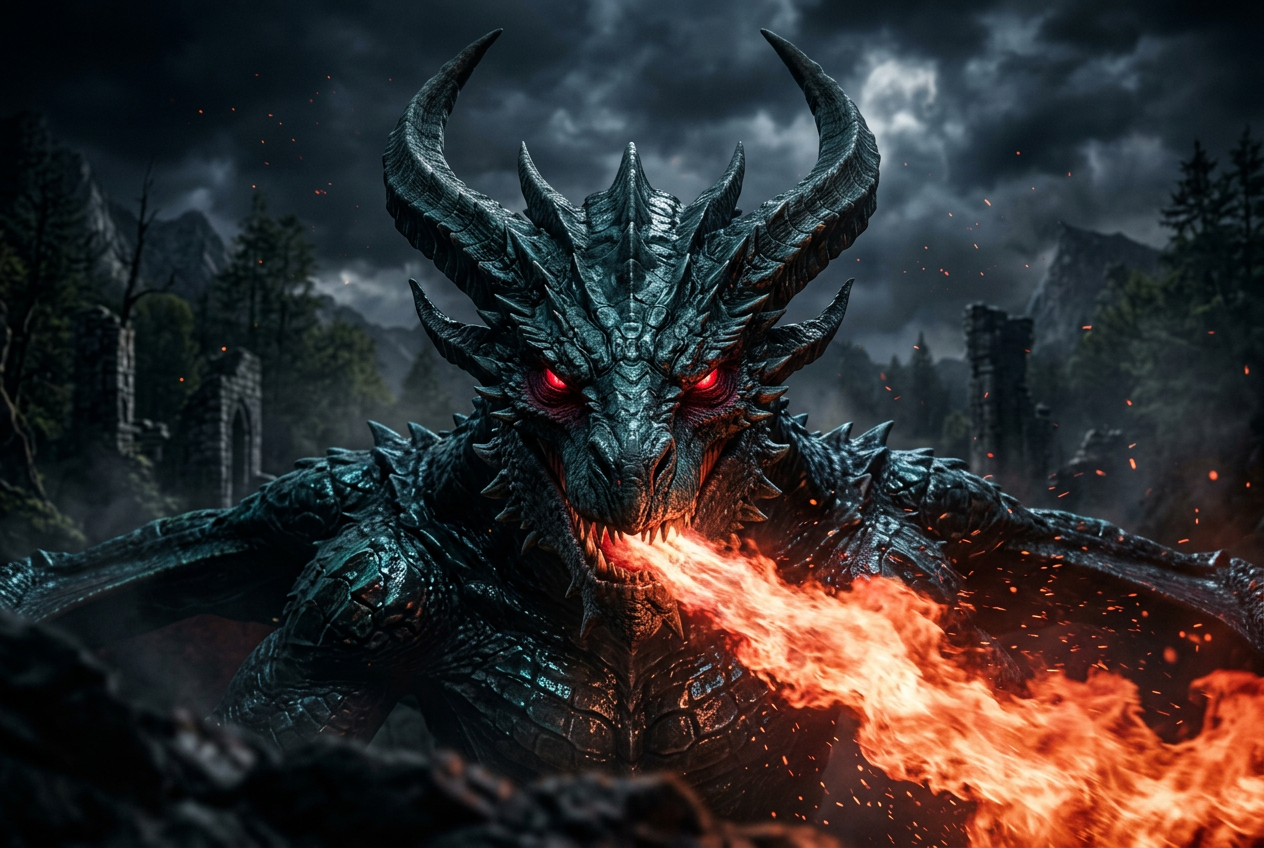
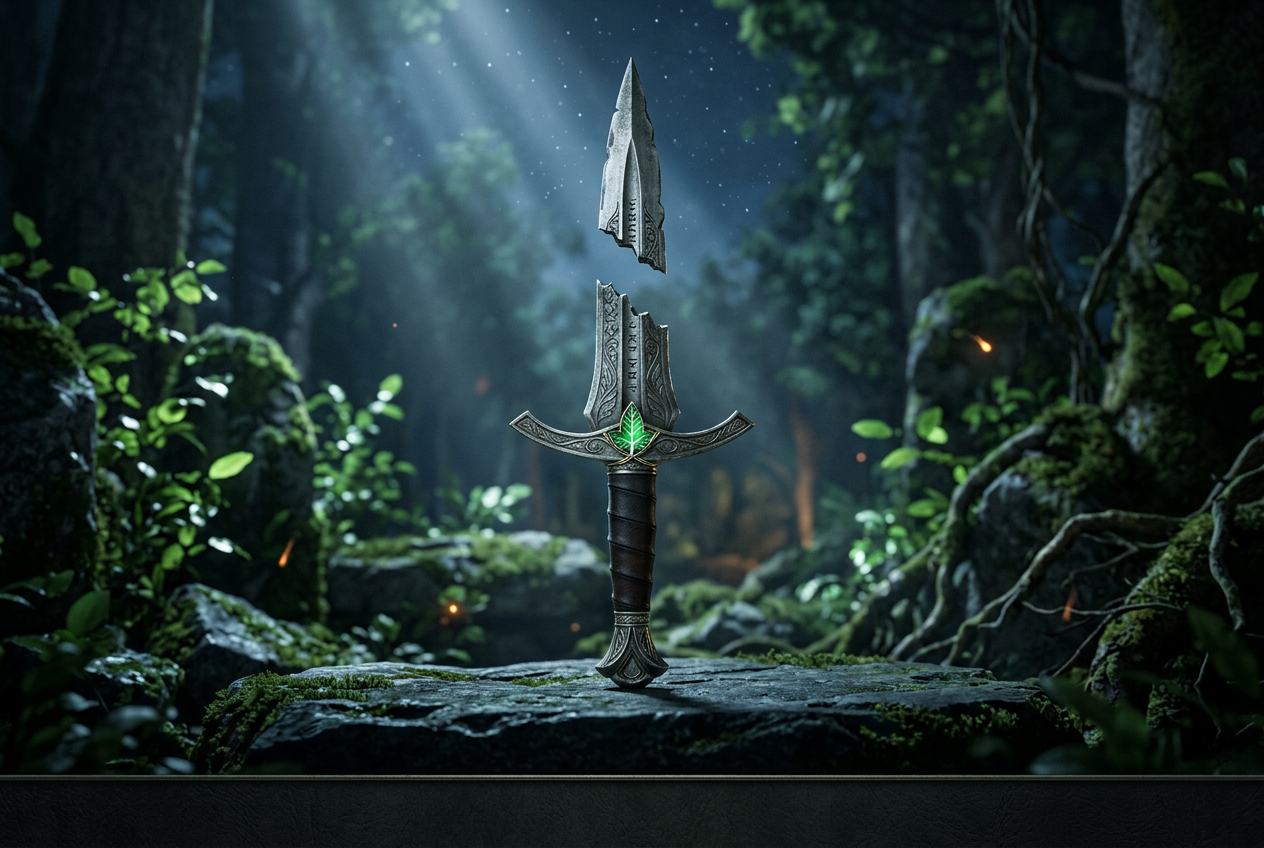
feat: update Montemader review page theme and content details
V0-Chat-Id: vu9GYSy5o8h

diff --git a/public/montemader-review.html b/public/montemader-review.html
@@ -3,9 +3,9 @@
 <head>
   <meta charset="utf-8">
   <meta name="viewport" content="width=device-width, initial-scale=1">
-  <meta name="theme-color" content="#0b0710">
-  <meta name="description" content="Montemader defense grid review mockup.">
-  <title>Montemader · Defense Grid</title>
+  <meta name="theme-color" content="#07090a">
+  <meta name="description" content="A dark, Tolkien-inspired sample control room with a green leaf sigil, field trials, and a lore archive.">
+  <title>Montemader · Green Leaf Watch</title>
   <style>
     :root {
       color-scheme: dark;
@@ -26,8 +26,8 @@
     }
 
     * { box-sizing: border-box; }
-    html { min-width: 320px; background: var(--bg); }
-    body { min-height: 100vh; margin: 0; background: var(--bg); color: var(--text); font-family: var(--sans); }
+    html { min-width: 320px; background: #07090a; }
+    body { min-height: 100vh; margin: 0; background: radial-gradient(ellipse at 50% -18%, rgb(52 81 58 / 34%), transparent 54%), linear-gradient(180deg, #0b100d 0%, #07090a 46%, #050707 100%); background-attachment: fixed; color: var(--text); font-family: var(--sans); }
     button, input { font: inherit; }
     button { color: inherit; }
     button:focus-visible, input:focus-visible { outline: 2px solid var(--silvergreen); outline-offset: 3px; }
@@ -110,7 +110,7 @@
     .bot-card:nth-child(2) .action { animation-delay: .16s; }
     .bot-card:nth-child(3) .action { animation-delay: .32s; }
 
-    .section-heading { margin: 22px 0 10px; font: 400 17px/1.2 var(--serif); }
+    .section-heading { margin: 22px 0 10px; border-bottom: 1px solid var(--line); padding-bottom: 8px; color: #dce5d5; font: 400 17px/1.2 var(--serif); text-shadow: 0 2px 8px rgb(0 0 0 / 65%); }
     .two-column { display: grid; grid-template-columns: 1.1fr .9fr; gap: 12px; }
     .card-pad { padding: 14px; }
     .card h2 { margin: 0 0 11px; font: 400 16px/1.2 var(--serif); }
@@ -182,8 +182,8 @@
       <div class="brand">
         <button class="brand-mark" id="open-sign-in" type="button" aria-label="M — open sign in">M</button>
         <div class="brand-info">
-          <strong><a href="https://montemader.com" target="_blank" rel="noopener noreferrer">Montemader.com</a> · Defense Grid</strong>
-          <span>Tunnel status · bot controls · event data</span>
+          <strong><a href="https://montemader.com" target="_blank" rel="noopener noreferrer">Montemader.com</a> · Green Leaf Watch</strong>
+          <span>Two dragon agents · one blade sentinel · sample only</span>
         </div>
       </div>
       <span class="preview-state">SAMPLE</span>
@@ -191,14 +191,14 @@
 
     <nav aria-label="Pages">
       <button type="button" data-view="dashboard" aria-current="page">Dashboard</button>
-      <button type="button" data-view="tester">Tester</button>
-      <button type="button" data-view="matrix">Intel</button>
+      <button type="button" data-view="tester">Field Trials</button>
+      <button type="button" data-view="matrix">Elven Archive</button>
       <button class="manual-toggle" type="button" data-action="toggle-manual" aria-pressed="false" aria-label="Toggle manual override">MM: Auto</button>
     </nav>
 
     <main tabindex="-1">
       <section class="view" id="view-dashboard" aria-labelledby="dashboard-title">
-        <div class="page-title"><h1 id="dashboard-title">Defense grid</h1><span class="sample-tag">DEMO DATA</span></div>
+        <div class="page-title"><h1 id="dashboard-title">The Green Leaf Watch</h1><span class="sample-tag">DEMO DATA</span></div>
         <div class="status-strip">
           <p class="notice" role="note">Sample telemetry · not connected to live bots.</p>
           <a class="sms-link" href="sms:+14258303312?body=EMERGENCY%20SITE%20ATTACK%20-%20montemader.com" aria-label="Compose an emergency SMS to +1 425-830-3312">SMS +1 425-830-3312</a>
@@ -212,9 +212,9 @@
         </div>
         <div class="bot-grid">
           <article class="card bot-card">
-            <div class="bot-image-wrap"><img class="bot-image" src="/images/superbot-portrait.png" alt="Photorealistic teal-black dragon staring forward with glowing red eyes and breathing fire"><h2 class="bot-name">SuperBot</h2></div>
+            <div class="bot-image-wrap"><img class="bot-image" src="/images/superbot-portrait.png" alt="Broken elven sword with a vivid green Leaf of Lórien brooch in a shadowed forest"><h2 class="bot-name">SuperBot</h2></div>
             <div class="bot-info">
-              <p class="bot-role">Elf Lord WAF / Edge AI</p>
+              <p class="bot-role">Narsil-inspired blade sentinel · Leaf of Lórien sigil</p>
               <dl>
                 <div class="detail"><dt>Target</dt><dd><a class="target-link" href="https://montemader.com" target="_blank" rel="noopener noreferrer">montemader.com</a></dd></div>
                 <div class="detail"><dt>Tunnel</dt><dd>Alpha · 443</dd></div>
@@ -222,7 +222,7 @@
                 <div class="detail"><dt>Health</dt><dd class="healthy">Sample · 100%</dd></div>
                 <div class="detail"><dt>Heartbeat</dt><dd>Demo only</dd></div>
               </dl>
-              <div class="conduit">WAF · reputation scoring · JS challenge</div>
+              <div class="conduit">Green leaf of protection · visual sigil only · sample mode</div>
               <button class="action" type="button" data-demo-attack="SuperBot">Preview route</button>
             </div>
           </article>
@@ -259,7 +259,7 @@
             </div>
           </article>
         </div>
-        <h2 class="section-heading">Events</h2>
+        <h2 class="section-heading">The Watch Ledger</h2>
         <div class="two-column">
           <article class="card card-pad">
             <h2>Sample event log</h2>
@@ -278,7 +278,7 @@
       </section>
 
       <section class="view" id="view-tester" aria-labelledby="tester-title" hidden>
-        <div class="page-title"><h1 id="tester-title">Tester</h1><span class="sample-tag">LOCAL ONLY</span></div>
+        <div class="page-title"><h1 id="tester-title">Field Trials</h1><span class="sample-tag">LOCAL ONLY</span></div>
         <div class="capability-grid">
           <article class="card capability-card">
             <h2>SuperBot</h2>
@@ -304,7 +304,7 @@
       </section>
 
       <section class="view" id="view-matrix" aria-labelledby="matrix-title" hidden>
-        <div class="page-title"><h1 id="matrix-title">Intel</h1><span class="sample-tag">DEMO RECORDS</span></div>
+        <div class="page-title"><h1 id="matrix-title">Elven Archive</h1><span class="sample-tag">DEMO RECORDS</span></div>
         <p class="notice" role="note">Sample records only.</p>
         <div class="matrix-data" id="matrix-data">
           <div class="data-grid">
